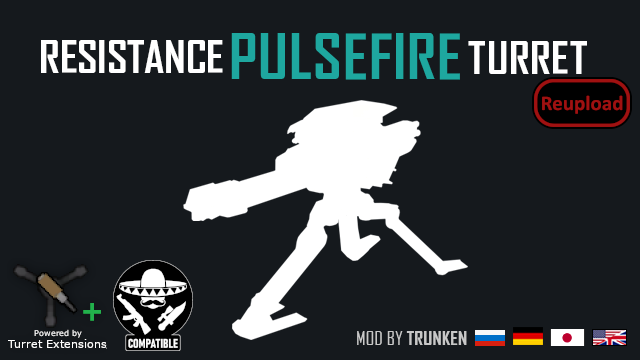
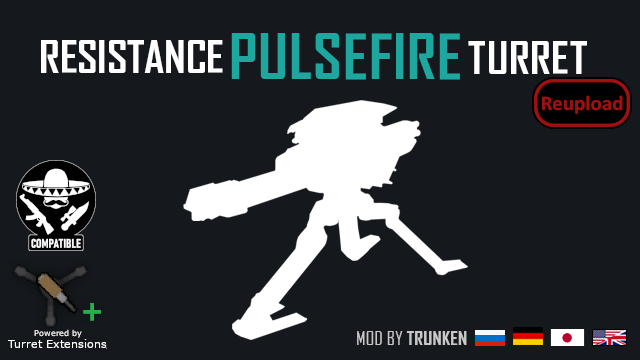
CE-patch is now included in the main CE-mod instead

Changed region(s): [[0.0, 0.4278, 0.1562, 0.7028], [0.1562, 0.7028, 0.3125, 0.9778]]

diff --git a/README.md b/README.md
@@ -1,23 +1,14 @@
 # PulsefireTurret
 
-![Image](https://i.imgur.com/WAEzk68.png)
+![Image](https://i.imgur.com/buuPQel.png)
 
 Update of Trunkens mod
 https://steamcommunity.com/sharedfiles/filedetails/?id=1712142869
 
-![Image](https://i.imgur.com/7Gzt3Rg.png)
+![Image](https://i.imgur.com/pufA0kM.png)
 
-
-[table]
-	[tr]
-		[td]https://invite.gg/Mlie]![Image](https://i.imgur.com/zdzzBrc.png)
-[/td]
-		[td]https://github.com/emipa606/PulsefireTurret]![Image](https://i.imgur.com/kTkpTOE.png)
-[/td]
-	[/tr]
-[/table]
 	
-![Image](https://i.imgur.com/NOW7jU1.png)
+![Image](https://i.imgur.com/Z4GOv8H.png)
 
 
 **Version 1.0**: Release
@@ -36,8 +27,8 @@ Adds 2 new maximum range security buildings to the game:
  - 1x1
 
 **Requirements**
- - Technology &quot;Pulsefire Turret&quot;
-   (dependency: &quot;Precision Rifle&quot;, &quot;Gun Turrets&quot;, &quot;Multy Analyzer&quot;)
+ - Technology "Pulsefire Turret"
+   (dependency: "Precision Rifle", "Gun Turrets", "Multy Analyzer")
  - Metal: 125
  - Steel: 125
  - Components: 8
@@ -75,13 +66,13 @@ Russian Translation * by AftarNik
 Japanese Translation * by Proxyer
 German Translation * by Endgegner
 
-**Patches &quot;Sniper Turret&quot; with the correct range limit.
+**Patches "Sniper Turret" with the correct range limit.
 Meant to be comparable and suitable to each other
 
 ![Image](https://i.imgur.com/p7Fv1Z6.gif)
 
 
-![Image](https://i.imgur.com/Rs6T6cr.png)
+![Image](https://i.imgur.com/PwoNOj4.png)
 
 
 
